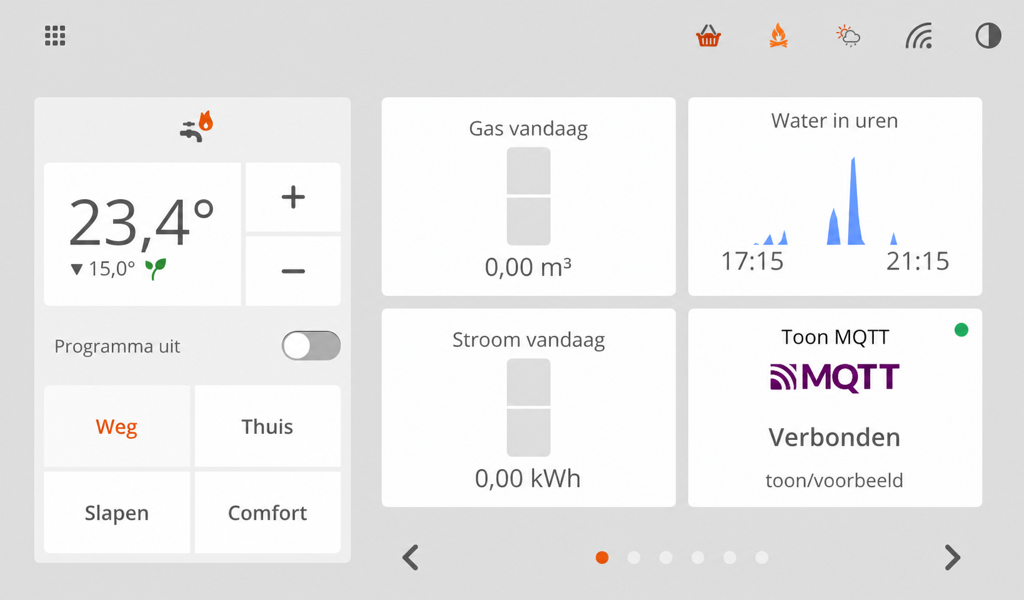
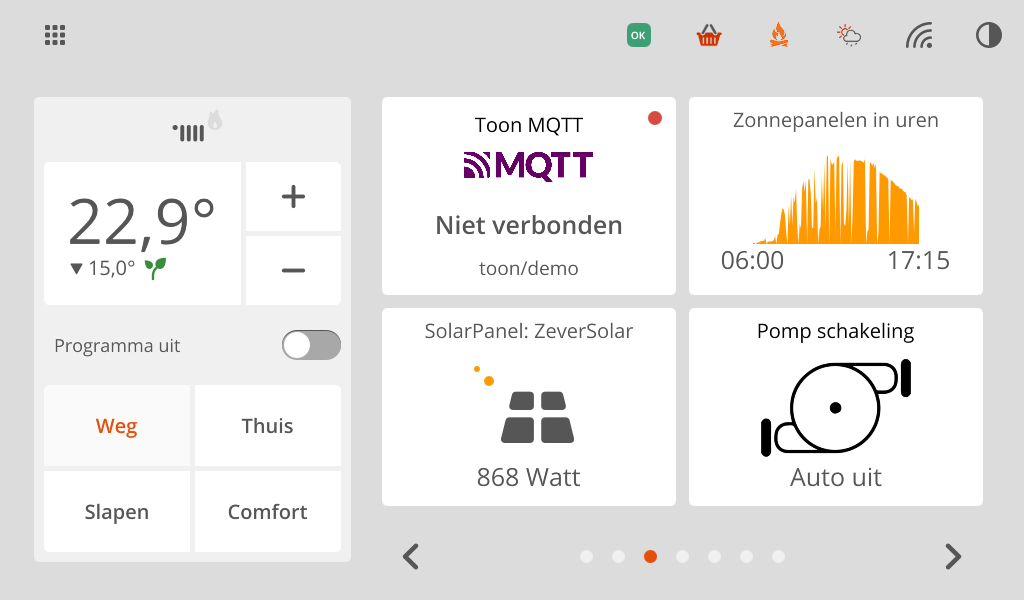
Add Toon MQTT store screenshots

diff --git a/docs/TSC_STORE.md b/docs/TSC_STORE.md
@@ -45,7 +45,7 @@ Maak daar een pull request die:
 
 - het fragment uit [`ToonRepo-entry.xml`](../ToonRepo-entry.xml) één keer in
   `ToonRepo.xml` toevoegt;
-- `toonmqtt_screenshot_1.png` en `toonmqtt_screenshot_2.png` uit
+- `toonmqtt_screenshot_1.png` tot en met `toonmqtt_screenshot_4.png` uit
   [`images`](images) in de catalogusroot zet;
 - dezelfde `folder` (`toonmqtt`) en versie (`1.2.4`) gebruikt als de
   applicatierepository/tag.
